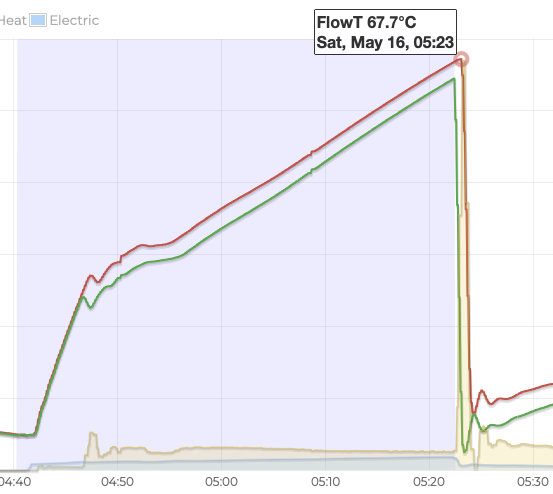
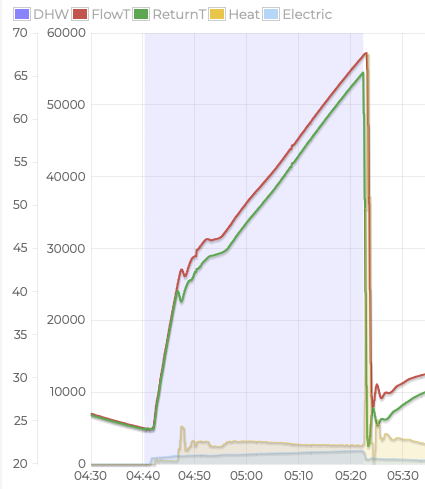
wip draft

diff --git a/_drafts/heat-geek-nanostore-summer-time.md b/_drafts/heat-geek-nanostore-summer-time.md
@@ -4,63 +4,81 @@ title: >
 tags: gear home-assistant
 ---
 
-wise words
+Summer time, and the living is easy. My heat pump and Heat Geek NanoStore hot water system were installed last October. [So]({% link _posts/2026-02-09-heat-geek-nano-store-conclusion.md %}) [far]({% link _posts/2026-04-07-heat-geek-nano-store-dhw-update.md %}), I've shown you performance data from the winter months. How does the system behave when the heating is turned off?
 
 # Temperature Sensor
 
-* [Last time]({% link _posts/2026-04-07-heat-geek-nano-store-dhw-update.md %}) left you with a cliff hanger. Had found that the tank temperature sensor was providing erratic values.
-* Was replaced May 15th. I also got them to move the sensor up near the middle of the tank. Previous position at the bottom near cold water inlet was meant to respond quickly when hot water drawn off to start the heat pump. Never responded quickly enough for the heat pump to ramp up in time before the stored hot water ran out. At the same time, had the downside in winter that it would report values lower than 10°C triggering the heat pump to run a frost protection cycle, while the top of the store still had plenty of hot water!
-* We boost the hot water before a shower, so makes more sense to put the sensor where it will more accurately report remaining hot water temperature.
+[Last time]({% link _posts/2026-04-07-heat-geek-nano-store-dhw-update.md %}), I left you with a cliff hanger. I found that the tank temperature sensor was providing erratic readings.
+
+The sensor was replaced on May 15th. I also got them to move the sensor up near the middle of the tank. The previous position near the cold water inlet at the bottom of the tank is meant to respond quickly when hot water is drawn off. The idea is to use that temperature drop to start the heat pump and replace the stored heat being drawn off. However, it never responded quickly enough for the heat pump to ramp up in time before the stored hot water ran out. 
+
+At the same time, the sensor position had the downside in winter that it would eventually report values lower than 10°C. That triggers the heat pump to run a frost protection cycle. Which is pointless as the the top of the store still has plenty of hot water.
+
+As we can't rely on the sensor to respond quickly enough, we boost the hot water before using the shower. It makes more sense to put the sensor where it will more accurately report the remaining hot water temperature.
 
 {% include candid-image.html src="/assets/images/home-assistant/dhw-temp-sep-3.png" alt="DHW run flow and tank temperatures, September 2nd" %}
 
-* Sensible looking tank temperature curve (in orange, Vaillant cloud only updates values every 5 minutes). Once DHW run ends (flow temperature shown in blue), temperature equalizes and then stays stable, declining gently.
-* Still use Home Assistant to stop DHW run when flow temperature hits 65°C. Prevents temperature ramping up too high if the sensor goes on the blink again in future.
+Here's an overnight DHW run. We have a sensible looking tank temperature curve in orange. It's coarse grained because Vaillant cloud only updates values every 5 minutes. The flow temperature from Open Energy Monitoring (updates every 10 seconds) is shown in blue. 
+
+Once the DHW run ends, tank temperature equalizes and then stays stable, declining gently. I still use Home Assistant to stop the DHW run when return temperature hits 65°C. It will continue to prevent temperature ramping up too high if the sensor goes on the blink again in the future.
 
 # DHW
 
-* What's the effect of summer temperatures on DHW runs?
-* May 16 after temperature sensor sorted
-* Added 1.772kWh heat, using 1.019kWh electric for COP of 1.74
-* Heating on, hot water in pipes at end of run dumped into heating circuit
-* Big spike at end means detail during DWH run is squashed down on graph
-* Cold night, 5C outside during 40 minute DHW run
+What's the effect of summer temperatures on DHW runs? This is a run from May 16th,  after the temperature sensor was replaced. It's a cold night, 5°C outside, and the heating is on.
 
 {% include candid-image.html src="/assets/images/home-assistant/dhw-may-16.png" alt="DHW run May 16" %}
 
-* September 2, 14C outside during 40 minute DHW run
-* Added 2.285kWh of heat, using 0.982kWh electric for COP of 2.33
-* Significant improvement in efficiency when warmer outside
-* Heating is off, so no pump running when DHW ends. Hot water sits in the pipes and heat slowly dissipates mainly via convection/conduction along pipes
+We added 1.772kWh heat, using 1.019kWh electric for a COP of 1.74. As the heating is on, the remaining hot water in the pipes is dumped into the heating circuit at the end of the run. That results in a big spike of heat with the graph's Y-axis going up to 60kW.
+
+Compare that to a run from September 2nd. Its 14°C outside and the heating is off.
 
 {% include candid-image.html src="/assets/images/home-assistant/dhw-sep-2.png" alt="DHW run September 2" %}
 
+We added 2.285kWh of heat, using 0.982kWh electric for a COP of 2.33. There's a significant improvement in efficiency when it's warmer outside. 
+
+The heating is off, so there's no heating circuit pump running when the DHW run ends. The remaining hot water sits in the pipes and heat slowly dissipates, mainly via convection/conduction along the pipes. There's no big spike of heat, with the graph's Y-axis going up to 9kW.
+
 # Shower
 
-* As a reminder, here's what happens when showering in winter.
+As a reminder, here's what happens when showering in winter.
 
 {% include candid-image.html src="/assets/images/home-assistant/back-to-back-boost-shower.png" alt="Back to back Boost Showers" %}
 
-* This is two back to back showers. It takes about 10 minutes after pressing boost for flow temperature to hit 55°C. If you run the shower at its full 8L/min flow rate, you take heat out of the store faster than the heat pump can replenish. The flow rate drops rapidly. After 8 minutes of showering you'll notice the water temperature at the shower head start to drop. 
-* When the first shower ends it takes five minutes to get back up to temperature for the next shower.
+This is two back to back showers. It takes about 10 minutes after pressing boost for flow temperature to hit 55°C. If you run the shower at its full 8L/min flow rate, you take heat out of the store faster than the heat pump can replenish. The flow temperature drops rapidly. After 8 minutes of showering you'll notice the water temperature at the shower head start to drop. 
 
-* July 21, 20C outside, 25 minute shower
-* What a contrast. The flow temperature keeps going up. The heat pump is providing more heat than needed. You can shower indefinitely with full flow.
-* Flow temperature gently declines in the same way as the summer time DHW run. However, return temp plummets. Heat left in pipes is clearly going somewhere fast.
-* Towel rail in top floor bathroom gets noticeably warmer, none of the other radiators do
-* Assume some sort of convection current got going around the heating circuit. No idea why it doesn't always happen.
+When the first shower ends, it takes five minutes to get back up to temperature for the next shower. In contrast, here's what a *25 minute* shower looks like on July 21st, when it's 20°C outside.
 
 {% include candid-image.html src="/assets/images/home-assistant/shower-july-21.png" alt="Shower July 21" %}
 
+The flow temperature keeps going up while showering. The heat pump is providing more heat than needed. You can shower indefinitely with full flow.
+
+At the end of the run, flow temperature gently declines in the same way as the summer time DHW run. However, return temperature plummets. The heat left in the pipes is clearly going somewhere fast.
+
+The towel rail in our top floor bathroom gets noticeably warmer, none of the other radiators do. There must be some sort of convection current that gets going around the heating circuit. I've no idea why it doesn't always happen. 
+
 # Home Assistant
 
-* Remove heating prediction entirely from energy consumption estimate if heating is turned off
+I had to make a couple of changes to my Home Assistant setup.
+
+## Heating Forecast
+
+I use the next day's weather forecast to predict how much heating we'll need each hour. That in turn is used to decide how much charge to add to our home battery overnight. We want to leave some room to capture any excess solar generation.
+
+If the heating is off, we won't generate any heat. I can skip the forecast and set the heating estimate to 0.
 
 {% include candid-image.html src="/assets/images/home-assistant/target-soc-from-forecasts.png" alt="Automation setting target battery SOC from forecasts" %}
 
-* Home battery management to discharge during the night while above target
-* Using composite automation pattern. List of triggers and then a `choose` action to run code appropriate for each trigger
-* Added a couple more triggers for start of the normal overnight charging period and when battery SOC falls below target
+## Self Sufficient
+
+In the winter, we always needed to add some charge to the battery overnight. However, in summer the remaining charge in the battery is frequently above the target. During the peak summer months, there are often days when we can be completely self-sufficient, with solar generation exceeding our consumption. 
+
+Our home battery won't discharge during a charging period. During this time we use power from the grid. The behavior makes sense for most cases. You charge overnight on low price electricity. There's no point using battery power when you can use the low price electricity directly.
+
+My solar panels were installed via a government incentive program that pays us for the electricity they generate, regardless of how the power is used. We don't get anything extra for exporting it. In my case, it makes more sense to discharge the battery in the night if we can refill it using solar generation the next day. 
+
+I updated my Home Assistant battery management automation to discharge during the night while we're above the target SOC. The automation uses the composite automation pattern. I have a list of triggers and then a `choose` action to run code appropriate for each trigger.
+
+I added a couple more triggers for the start of the normal overnight charging period and for when battery SOC falls below target.
 
 ```yaml
 triggers:
@@ -74,7 +92,7 @@ triggers:
     id: soc_below_target
 ```
 
-* With corresponding actions. 
+If actual SOC is above target at the start of the charging period, I turn charging off. Once the actual SOC falls to the target SOC, I turn charging back on.
 
 ```yaml
 actions:
@@ -114,9 +132,9 @@ actions:
               entity_id: input_text.alpha_night_charge_time_end
 ```
 
-* Battery API updates all the settings at once, even if you only want to change a subset of them.
-* Refactored automation so that I update helper entities for desired state of battery settings. Change just the subset of settings needed.
-* Then apply the changes once at the end. Gets rid of all the tedious logic that previously had to figure out the values of settings you're not changing.
+The battery API updates all the settings at once, even if you only want to change a subset of them. Previously, each path in the automation had it's own action to call the battery API, with sometimes complex logic to work out the appropriate values for the settings I didn't want to change. 
+
+I refactored the automation so that I update helper entities for the desired state of each battery setting. I can hange just the subset of settings needed. I have a single common action at the end of the automation that applies the current value of all the settings. 
 
 {% raw %}
 
